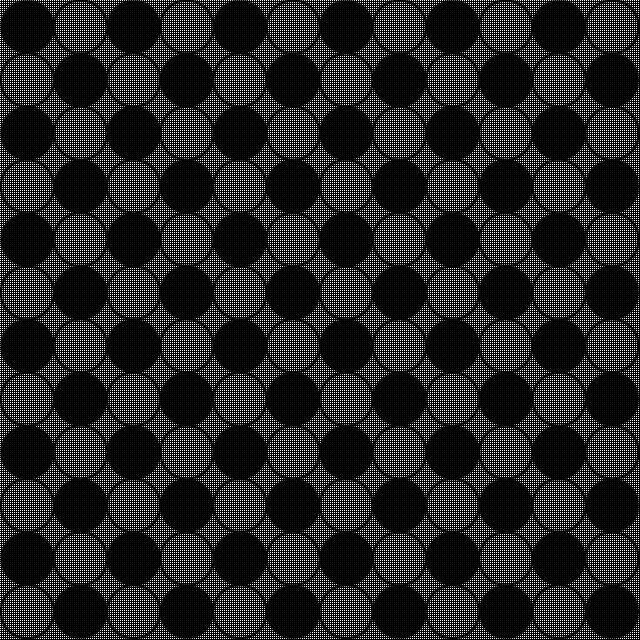
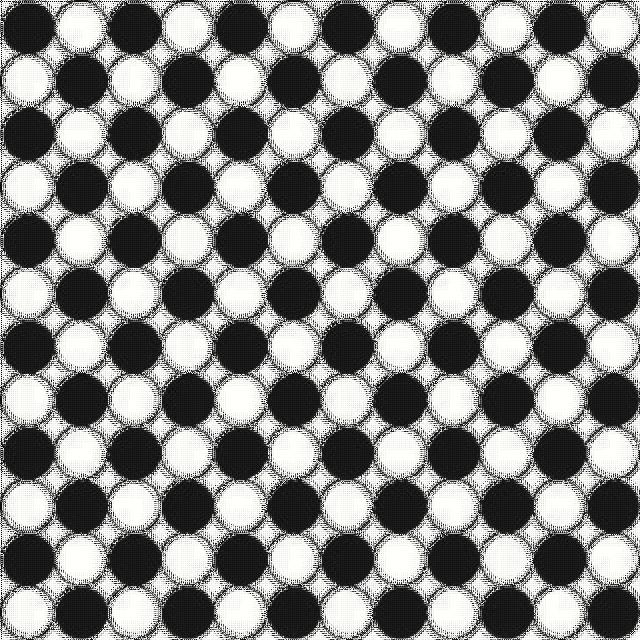
updating bonus image resizing

diff --git a/src/ImageResizing/ImageResizing.java b/src/ImageResizing/ImageResizing.java
@@ -1,5 +1,7 @@
 package ImageResizing;
 import ADTMatrix.*;
+import BicubicInterpolation.BicubicInterpolation;
+
 import java.io.*; 
 import java.util.*;
 import java.awt.image.BufferedImage; 
@@ -10,7 +12,7 @@ public class ImageResizing {
     Scanner scanObj = new Scanner(System.in);
     static InputOutput io = new InputOutput();
     static MatrixOps mOps = new MatrixOps();
-
+    static BicubicInterpolation bi = new BicubicInterpolation();
 
     // Program Utama dari Image Resizing
     public void ImageProcess()
@@ -21,11 +23,13 @@ public class ImageResizing {
         String outputName;
         String imagePath;
         int i, j;
+        int k, l;
         Matrix mColorTemp;
         Matrix mColor;
 
         // For storing image in RAM 
         BufferedImage image = null; 
+        BufferedImage padImage = null; // padImage adalah image yang sudah diberikan padding
         BufferedImage newImage = null;
 
         
@@ -81,18 +85,87 @@ public class ImageResizing {
         }
 
         System.out.println("Converting To Grayscale - DONE."); 
+        
+        // IMAGE WITH PADDING
+        System.out.println("Making Image with Padding...");
+        padImage = new BufferedImage (width+4, height+4, BufferedImage.TYPE_INT_RGB);
+        for (i = 0; i < width; i++){
+            for (j = 0; j <  height; j++){
+                padImage.setRGB(i+2, j+2, image.getRGB(i,j));
+            }
+        }
+        System.out.println("Making Image with Padding - DONE");
+
 
 
         // RESIZING IMAGE
         System.out.println("Resizing Image...");
         newImage = new BufferedImage (2*width, 2*height, BufferedImage.TYPE_INT_RGB);
 
+        // Membuat frame gambarnya 
         for(i = 0; i < width; i++){
             for (j = 0; j < height; j++){
-                newImage.setRGB(2*i,2*j, image.getRGB(i,j));
+                newImage.setRGB((2*i), (2*j), image.getRGB(i,j));     
 
+                // membuat matriks 4x4
+                Matrix m4x4 = new Matrix (4,4);
+                int mRow = 0;
+                // start loop mulai dari index -1 sampai index +3 (untuk membuat 4x4)
+                for (k = i-1; k < i+3 ; k++){
+                    int mCol = 0;
+                    for (l = j-1; l < j+3; l++){
+                        // System.out.println(k + " "+ l);
+                        // ambil salah satu dari value RGB pada padImage
+                        int val = getRed(padImage.getRGB(k+2, l+2));
+                        m4x4.setElmt(mRow, mCol, val);
+                        mCol++;
+                    }
+                    mRow++;
+                }
+
+                // Mengubah matriks 4x4 menjadi 16x1
+                Matrix m16x1 = mOps.transform4x4To16x1(m4x4);
+
+                int pixel = image.getRGB(i, j);
+                int alpha = getAlpha(pixel);
+
+                int pxl = getRed(image.getRGB(i, j));
+                double right, bottom, rightBottom;
+
+                if (pxl <= 51){
+                    right = bi.interpolate(0.2, 0, m16x1);
+                    bottom = bi.interpolate(0, 0.2, m16x1);
+                    rightBottom = bi.interpolate(0.2, 0.2, m16x1);
+                } else if (pxl <= 102){
+                    right = bi.interpolate(0.4, 0, m16x1);
+                    bottom = bi.interpolate(0, 0.4, m16x1);
+                    rightBottom = bi.interpolate(0.4, 0.4, m16x1);
+                } else if (pxl <= 153) {
+                    right = bi.interpolate(0.6, 0, m16x1);
+                    bottom = bi.interpolate(0, 0.6, m16x1);
+                    rightBottom = bi.interpolate(0.6, 0.6, m16x1);
+                } else if (pxl <= 204) {
+                    right = bi.interpolate(0.8, 0, m16x1);
+                    bottom = bi.interpolate(0, 0.8, m16x1);
+                    rightBottom = bi.interpolate(0.8, 0.8, m16x1);
+                } else {
+                    right = bi.interpolate(1, 0, m16x1);
+                    bottom = bi.interpolate(0, 1, m16x1);
+                    rightBottom = bi.interpolate(1, 1, m16x1);
+                }
+
+
+                //Mengisi pixel yang kosong
+                // set Right
+                int rightVal = ((int) alpha << 24) | ((int) right << 16) | ((int) right << 8) | ((int) right);
+                newImage.setRGB(2*i+1, 2*j, rightVal);
+                int bottomVal = ((int) alpha << 24) | ((int) bottom << 16) | ((int) bottom << 8) | ((int) bottom);
+                newImage.setRGB(2*i, 2*j+1, bottomVal);
+                int rightBottomVal = ((int) alpha << 24) | ((int) rightBottom << 16) | ((int) rightBottom << 8) | ((int) rightBottom);
+                newImage.setRGB(2*i+1, 2*j+1, rightBottomVal);
             }
         }
+
 
         System.out.println("Resizing Image - DONE");
 
@@ -108,10 +181,7 @@ public class ImageResizing {
         System.out.println("Writing Image...");
         writeImage(outputName, newImage);
         System.out.println("Writing Image - DONE");
-            
-
-
-
+        
     }
     
     //  =================================================== BATAS MAIN PROGRAM =========================================================

diff --git a/src/driver.java b/src/driver.java
@@ -158,10 +158,10 @@ public class driver {
 
         // Matrix m = io.readMatrix();
         // Matrix m4 = mOps.readBicubicFunctionValue(m);
-        // // Matrix m6 = mOps.readBicubicMatrix(m);
-        // // Matrix mNew = mOps.transform4x4To16x1(m6);
-        // // Matrix coef = bicubic.getCoefMatrix(mNew);
-        // // double x = m4.getElmt(0, 0);
+        // Matrix m6 = mOps.readBicubicMatrix(m);
+        // Matrix mNew = mOps.transform4x4To16x1(m6);
+        // Matrix coef = bicubic.getCoefMatrix(mNew);
+        // double x = m4.getElmt(0, 0);
         // double y = m4.getElmt(0, 1);
         // System.out.println(bicubic.interpolate(x, y, coef));
     }

diff --git a/src/tempCodeRunnerFile.java b/src/tempCodeRunnerFile.java
@@ -1,0 +1,4 @@
+import ADTMatrix.*;
+// import BicubicInterpolation.*;
+import BicubicInterpolation.BicubicInterpolation;
+import ImageResizing.ImageResizing;

diff --git a/README.md b/README.md
@@ -57,11 +57,20 @@ Aljabar Linier dan Geometri </center> </h1>
 
 <h2> <b> Keterangan File </b> </h2>
 <p> <b> File InputOutput.java </b> </p>
+<p> File yang berisikan segala algoritma untuk mengatur input dan output matriks, baik pada terminal maupun pada text. </p>
 <p> <b> File Matrix.java </b> </p>
+<p> File yang berisikan segala algoritma pengolahan matriks dan operasi di dalam suatu matriks. </p>
 <p> <b> File MatrixOps.java </b> </p>
+<p> File yang berisikan segala algoritma pengolahan antar 2 atau lebih matriks. </p>
 <p> <b> File Main.java </b> </p>
+<p> File yang berisikan program utama untuk menjalankan segala fungsi matriks. </p>
 <p> <b> File driver.java </b> </p>
+<p> File yang digunakan untuk melakukan testing sebelum dimasukkan ke dalam file Main. </p>
 <p> <b> File Interpolasi.java </b> </p>
+<p> File yang berisikan semua algoritma untuk melakukan fungsi interpolasi. </p>
 <p> <b> File BicubicInterpolation.java </b></p>
+<p> File yang berisikan semua algoritma untuk melakukan fungsi interpolasi bikubik. </p>
 <p> <b> File MultipleLinearRegression.java </b></p>
+<p> File yang berisikan semua algoritma untuk melakukan fungsi regresi linear berganda. </p>
 <p> <b> File ImageResizing.java </b> </p>
+<p> File yang berisikan semua algoritma untuk melakukan fungsi perbesaran citra (Image Enlargement). </p>
